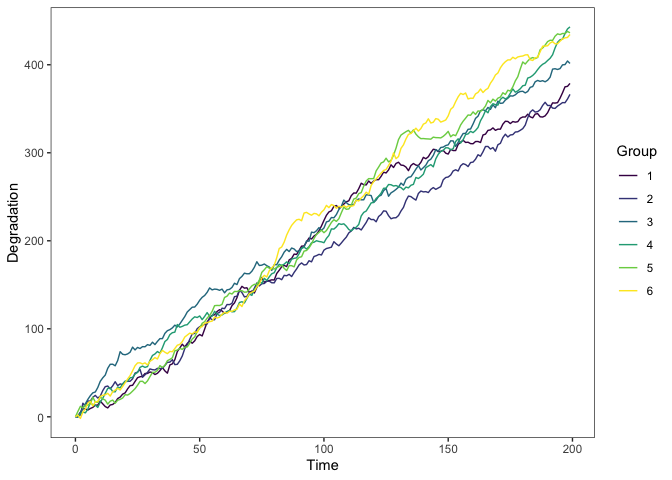
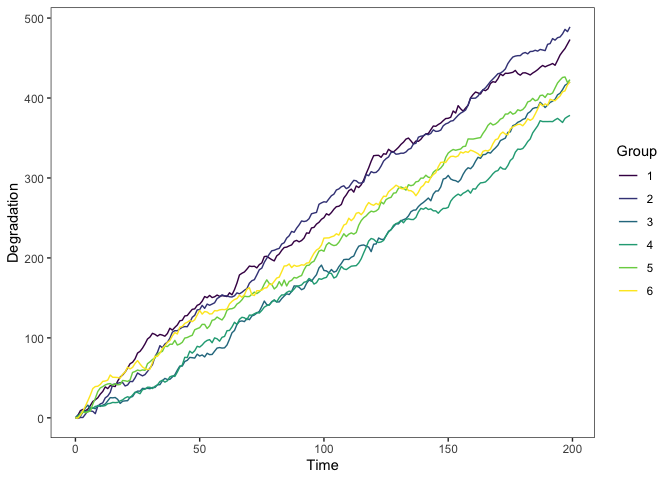
add readme

diff --git a/README.md b/README.md
@@ -1,9 +1,12 @@
 
 <!-- README.md is generated from README.Rmd. Please edit that file -->
+
+# sdp <a href='https://liangliangzhuang.github.io/sdp/'><img src='man/figures/logo.png' align="right" height="139" /></a>
+
 <!-- badges: start -->
 <!-- badges: end -->
 
-# Overview
+## Overview
 
 The goal of sdp is to provide engineers with practical guidance on how
 to analyze data using common degradation models: Wiener process, Gamma
@@ -58,20 +61,20 @@ str(dat)
 #> List of 2
 #>  $ :'data.frame':    200 obs. of  7 variables:
 #>   ..$ Time: num [1:200] 0 1 2 3 4 5 6 7 8 9 ...
-#>   ..$ 1   : num [1:200] 0 1.37 5.01 9.11 8.95 ...
-#>   ..$ 2   : num [1:200] 0 0.894 2.037 15.414 12.296 ...
-#>   ..$ 3   : num [1:200] 0 -0.527 5.003 9.684 14.833 ...
-#>   ..$ 4   : num [1:200] 0 1.24 3.43 5.45 4.48 ...
-#>   ..$ 5   : num [1:200] 0 6.16 11.92 10 13.23 ...
-#>   ..$ 6   : num [1:200] 0 1.99 -1.85 5.37 8.91 ...
+#>   ..$ 1   : num [1:200] 0 3.09 9 10.53 8.77 ...
+#>   ..$ 2   : num [1:200] 0 -0.764 0.437 0.425 4.464 ...
+#>   ..$ 3   : num [1:200] 0 3.53 1.75 7.2 12.62 ...
+#>   ..$ 4   : num [1:200] 0 0.406 5.725 8.224 8.018 ...
+#>   ..$ 5   : num [1:200] 0 0.983 4.513 7.027 6.358 ...
+#>   ..$ 6   : num [1:200] 0 -0.441 3.245 8.509 14.474 ...
 #>  $ :'data.frame':    200 obs. of  7 variables:
 #>   ..$ Time: num [1:200] 0 1 2 3 4 5 6 7 8 9 ...
-#>   ..$ 1   : num [1:200] 0 1.365 3.644 4.1 -0.165 ...
-#>   ..$ 2   : num [1:200] 0 0.894 1.143 13.377 -3.118 ...
-#>   ..$ 3   : num [1:200] 0 -0.527 5.53 4.681 5.148 ...
-#>   ..$ 4   : num [1:200] 0 1.237 2.19 2.027 -0.977 ...
-#>   ..$ 5   : num [1:200] 0 6.16 5.76 -1.91 3.22 ...
-#>   ..$ 6   : num [1:200] 0 1.99 -3.84 7.21 3.54 ...
+#>   ..$ 1   : num [1:200] 0 3.09 5.91 1.53 -1.76 ...
+#>   ..$ 2   : num [1:200] 0 -0.7639 1.2011 -0.0119 4.0386 ...
+#>   ..$ 3   : num [1:200] 0 3.53 -1.78 5.44 5.42 ...
+#>   ..$ 4   : num [1:200] 0 0.406 5.318 2.5 -0.206 ...
+#>   ..$ 5   : num [1:200] 0 0.983 3.53 2.513 -0.669 ...
+#>   ..$ 6   : num [1:200] 0 -0.441 3.685 5.265 5.965 ...
 ```
 
 Using `plot_path()` function to plot the simulated degradation data.
@@ -107,8 +110,8 @@ estimates.
 mle_fit = sta_infer(method = "MLE", process = "Wiener", type = "classical", data = dat[[1]])
 mle_fit
 #>         low   mean     up
-#> [1,] 1.8831 2.0606 2.2380
-#> [2,] 3.0025 3.1280 3.2534
+#> [1,] 2.0080 2.1809 2.3537
+#> [2,] 2.9249 3.0471 3.1693
 ```
 
 #### Bayes
@@ -142,8 +145,8 @@ fit1 = sta_infer(method = "Bayes", process = "Wiener",type = "classical",data = 
 bayes_fit = rstan::summary(fit1)$summary[c(1,2),c(4,1,8)] #
 bayes_fit
 #>        2.5%     mean    97.5%
-#> mu 1.885431 2.058223 2.222726
-#> w  3.016682 3.132778 3.264447
+#> mu 2.008699 2.181743 2.352026
+#> w  2.924380 3.052988 3.191184
 # print(fit1, probs = c(0.025,0.5,0.975),pars = c("mu","w"))
 rstan::plot(fit1)
 ```
@@ -183,6 +186,83 @@ RUL_plot(fut_time = c(50,55,60,65,70,75,80),time_epoch = 1:100,
 ```
 
 <img src="man/figures/README-unnamed-chunk-6-2.png" width="100%" />
+
+    #> $rect
+    #> $rect$w
+    #> [1] 0.2499835
+    #> 
+    #> $rect$h
+    #> [1] 0.1139012
+    #> 
+    #> $rect$left
+    #> [1] -0.1004324
+    #> 
+    #> $rect$top
+    #> [1] 0.1683858
+    #> 
+    #> 
+    #> $text
+    #> $text$x
+    #> [1] -0.02995602 -0.02995602 -0.02995602
+    #> 
+    #> $text$y
+    #> [1] 0.13991046 0.11143515 0.08295984
+
+## Example: lithium_battery data
+
+``` r
+str(lithium_battery)
+#> List of 2
+#>  $ data     :'data.frame':   168 obs. of  5 variables:
+#>   ..$ Time : int [1:168] 1 2 3 4 5 6 7 8 9 10 ...
+#>   ..$ B0005: num [1:168] 0 0.0102 0.0211 0.0212 0.0218 ...
+#>   ..$ B0006: num [1:168] 0 0.0102 0.022 0.0221 0.0348 ...
+#>   ..$ B0007: num [1:168] 0 0.0104 0.0104 0.0103 0.0116 ...
+#>   ..$ B0018: num [1:168] 0 0.0118 0.0154 0.0243 0.0223 ...
+#>  $ threshold: num [1:4] 0.456 0.635 0.491 0.455
+plot_path(lithium_battery[[1]]) + 
+  # scale_color_discrete() +
+  theme_bw() + 
+  theme(panel.grid = element_blank()) 
+```
+
+<img src="man/figures/README-unnamed-chunk-7-1.png" width="100%" />
+
+``` r
+# Inference
+# MLE ========
+mle_fit = sta_infer(method = "MLE", process = "Wiener", type = "classical",
+                    data = lithium_battery[[1]])
+mle_fit
+#>         low   mean     up
+#> [1,] 0.0024 0.0038 0.0051
+#> [2,] 0.0167 0.0176 0.0185
+Reliability(t = 100, threshold = lithium_battery[[2]][1],par = mle_fit,
+            process = "Wiener",type = "classical")
+#> [1] 0.8633334
+Reliability_cowplot(R_time = 1:300, sum_para = mle_fit, threshold = lithium_battery[[2]],
+                               process = "Wiener", type = "classical")
+```
+
+<img src="man/figures/README-unnamed-chunk-8-1.png" width="100%" />
+
+``` r
+rul2 = RUL(t = 1:100, cur_time = 30, threshold = lithium_battery[[2]][1], data = lithium_battery[[1]], par = mle_fit[,2], process = "Wiener", type = "classical")
+
+RUL_plot(fut_time = c(10,15,20,25,30), 
+         time_epoch = 1:300,
+         group = 1,
+         process = "Wiener", 
+         type = "classical",
+         threshold = lithium_battery[[2]][1],
+         dat = lithium_battery[[1]],
+         zlim = c(0,0.01),
+         xlim = c(0,300),
+         para = mle_fit[,2],
+         real_RUL=c(NA,NA,NA,NA,NA,NA))
+```
+
+<img src="man/figures/README-unnamed-chunk-9-1.png" width="100%" />
 
     #> $rect
     #> $rect$w
